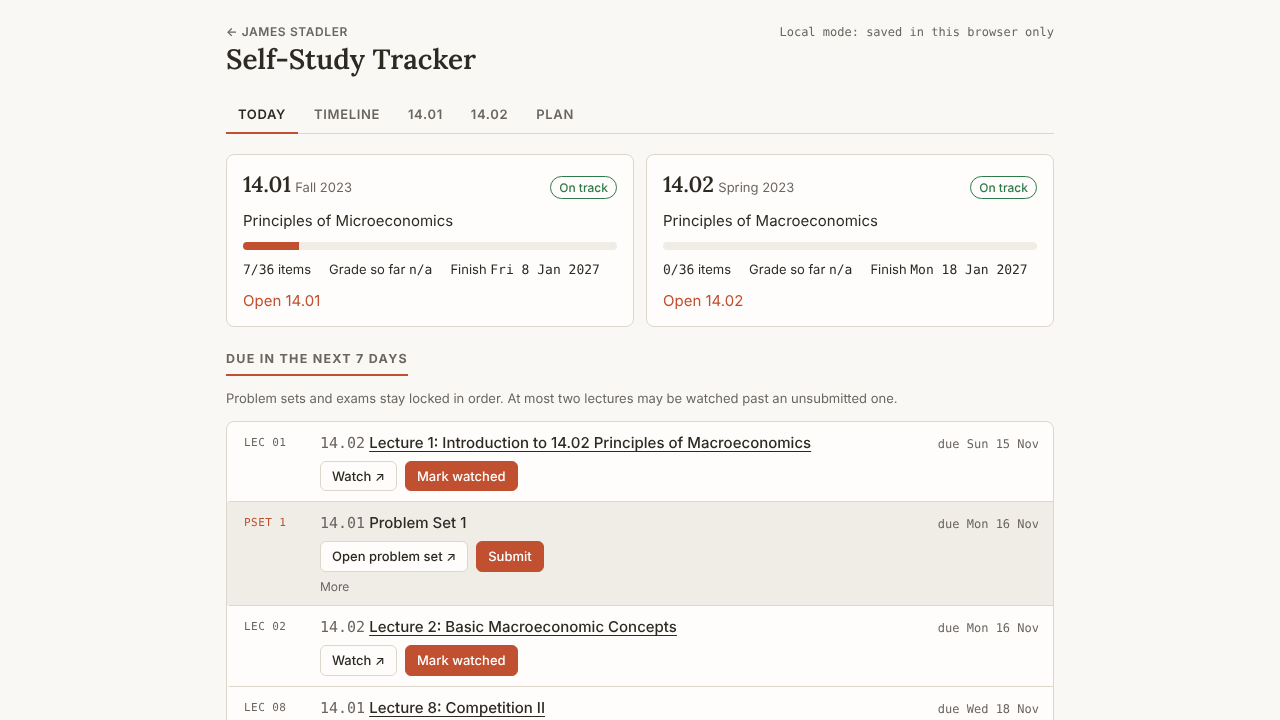
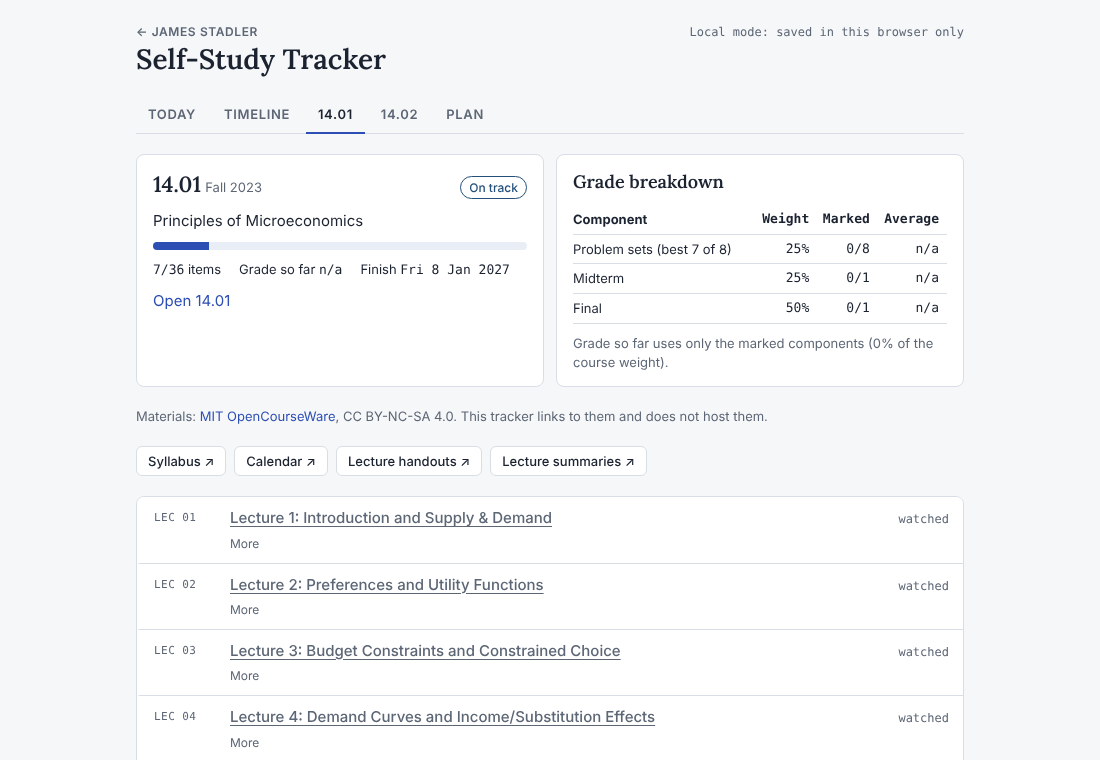
Changed styling colors

diff --git a/sass/style.scss b/sass/style.scss
@@ -1,14 +1,14 @@
 // ============================================
 // COLOR PALETTE — edit these to change the vibe
 // ============================================
-$bg:          #faf8f5;
-$bg-alt:      #f0ece6;
-$text:        #2d2a24;
-$text-muted:  #6b6560;
-$accent:      #c05030;
-$accent-hover:#a03820;
-$border:      #ddd6cc;
-$code-bg:     #2b2b2b;
+$bg:          #f6f7f9;
+$bg-alt:      #e9edf5;
+$text:        #1b2230;
+$text-muted:  #5c6675;
+$accent:      #2d4fb3;
+$accent-hover:#23408f;
+$border:      #d9dee6;
+$code-bg:     #1f2530;
 
 // ============================================
 // FONTS
